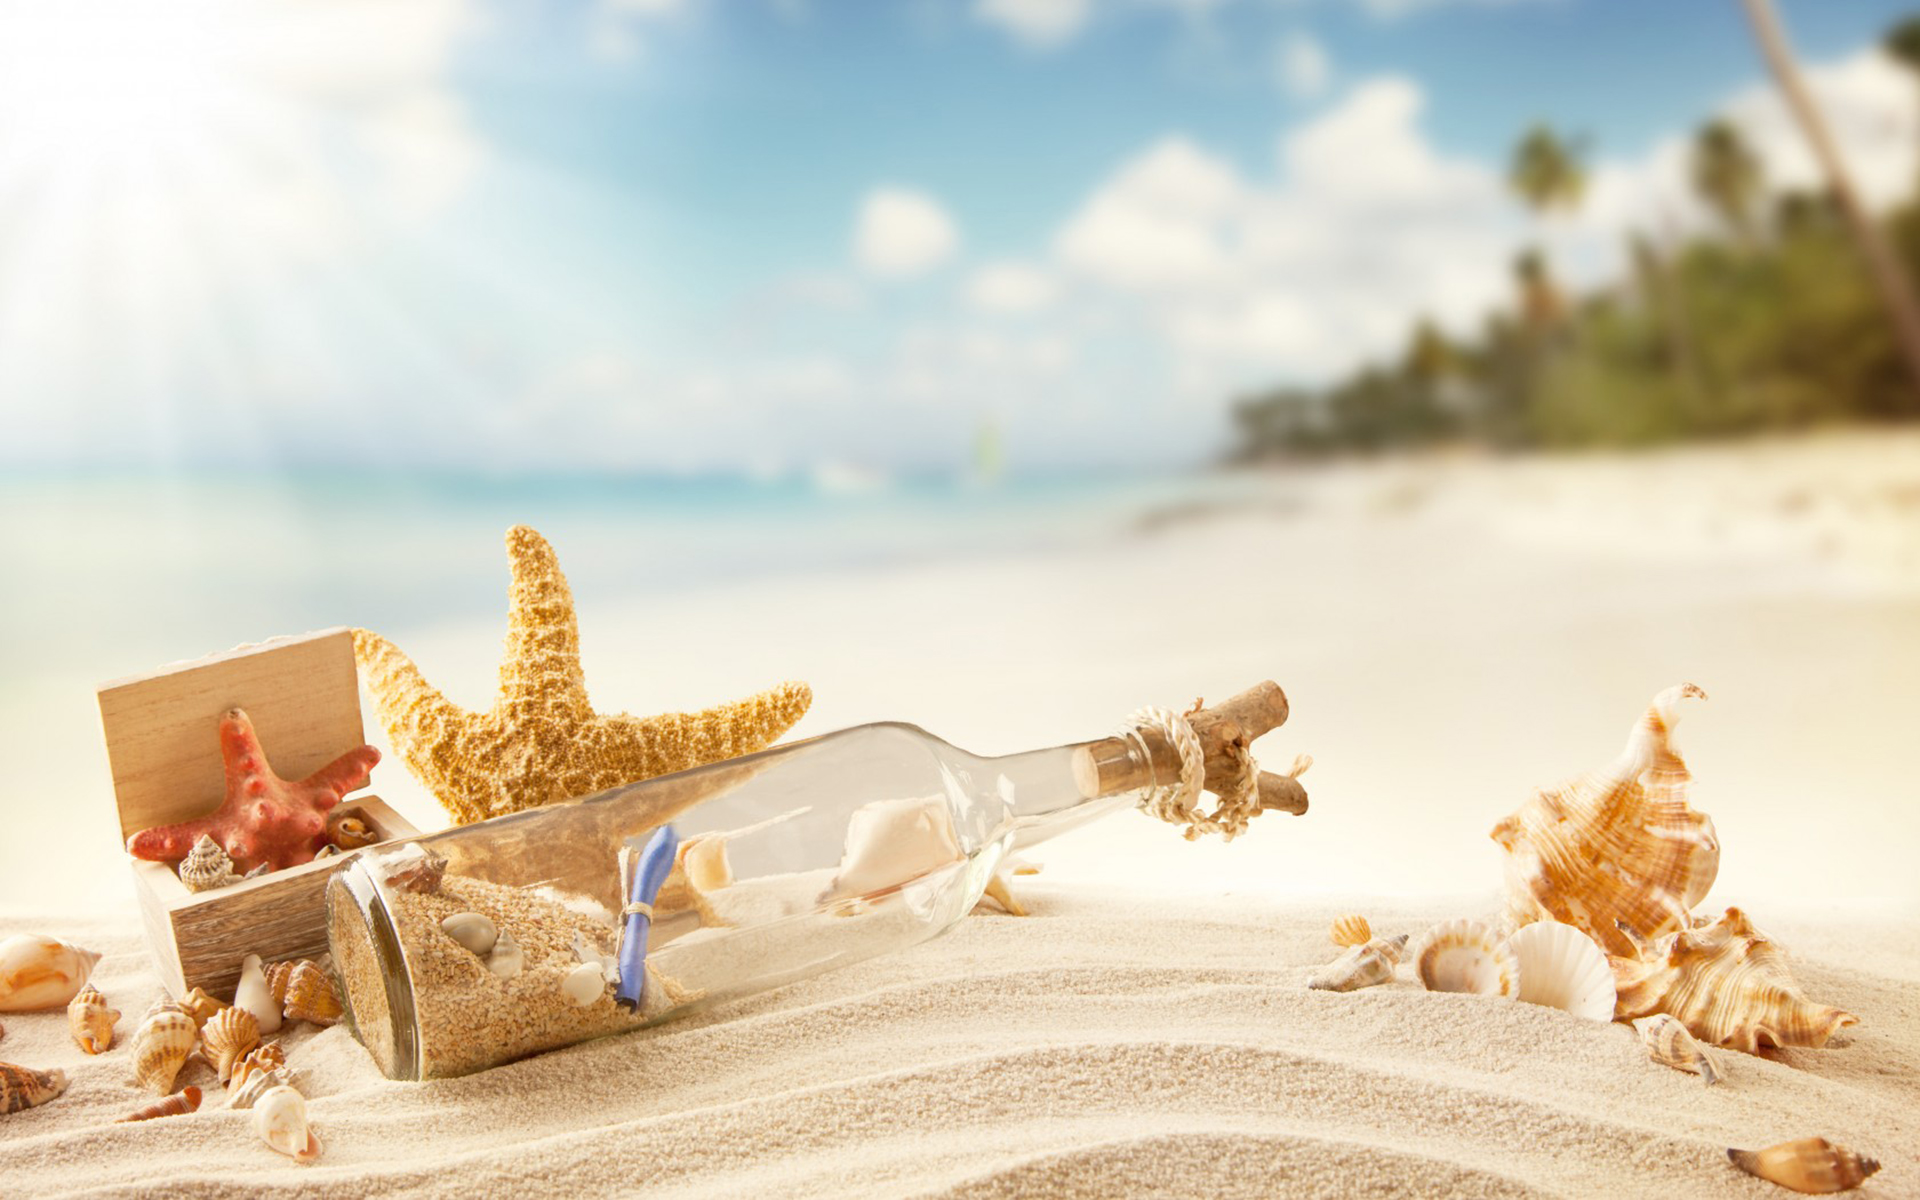
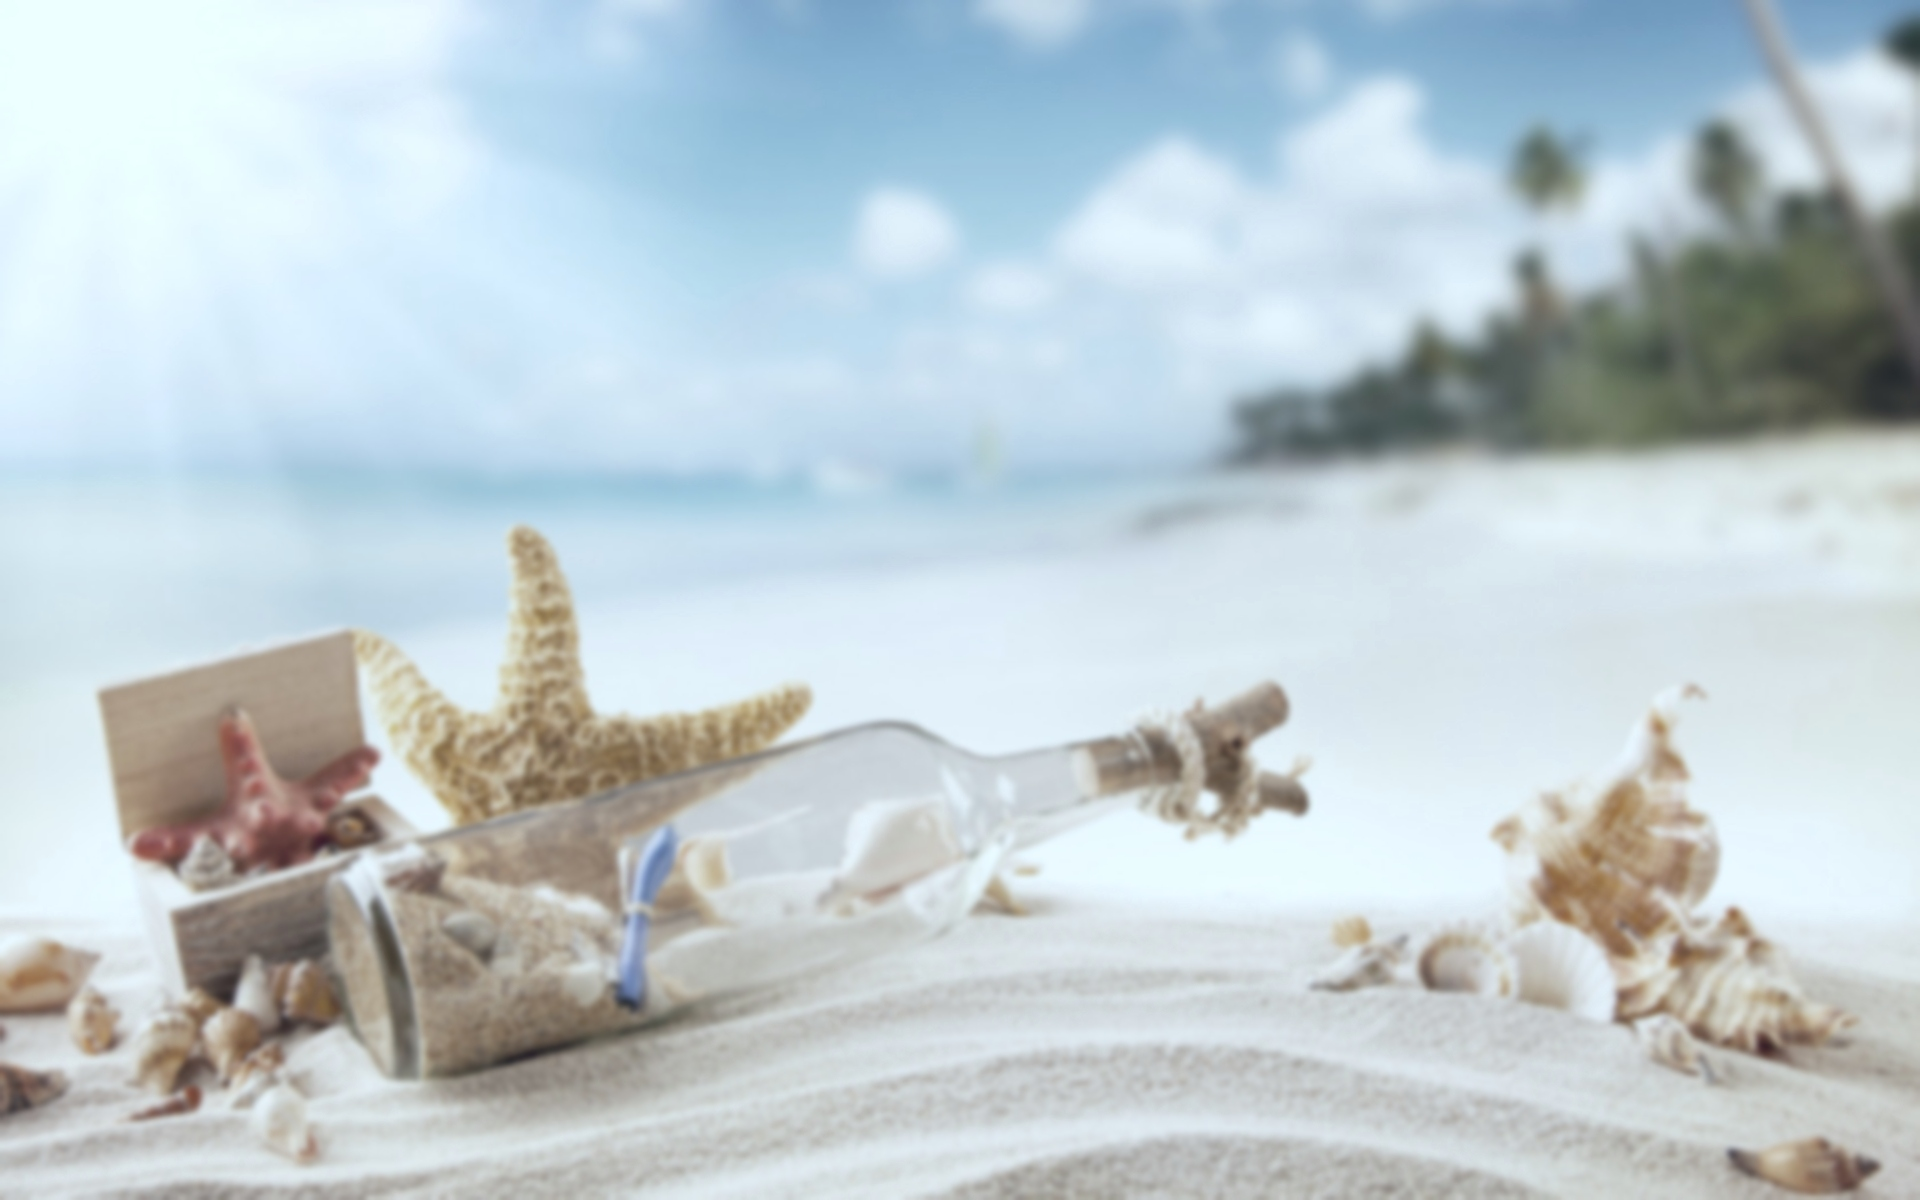
Updated Styling -centered content vertically and horizontally -made content responsive

diff --git a/assets/styles/index.scss b/assets/styles/index.scss
@@ -6,19 +6,18 @@ $icon-font-path: '~bootstrap-sass/assets/fonts/bootstrap/';
   padding: 0;
 }
 
-html, body {
-  width: 100%;
-  height: 100%;
-}
-
-
-#content-area {
+html, body{
   display: flex;
   flex-direction: column;
-  width: 100%;
+  background-image:url('./ocean.jpg');
   height: 100%;
-  min-width: 100%;
-  min-height: 100%;
+  margin: 0;
+  background-position: center fixed;
+  background-repeat: no-repeat;
+  background-size: cover;
+  max-height: 100%;
+  overflow: auto;
+  background-attachment: fixed;
 }
 
 #background {
@@ -41,29 +40,17 @@ html, body {
 }
 
 .modal-content {
-  margin: 40%;
+  margin: 10%;
   padding: 2%;
   border: solid 2px rgba(130, 111, 91, .8);
-  background-color: rgba(73, 124, 97,.4);
-}
-
-
-#image {
-  position: absolute;
-  background-size: cover;
-  width: 100%;
-  height: 100%;
-  min-width: 100%;
-  min-height: 100%;
-  z-index: -2;
-  opacity: .6;
-  background-image: url('./ocean.jpg')
+  background-color: rgba(73, 124, 97, .6);
+  min-width: 240px;
 }
 
 
 #warning-board {
   display: flex;
-  background-color: rgba(186, 13, 13, .5);
+  background-color: rgba(186, 13, 13, .6);
   justify-content: center;
   flex-wrap: wrap;
   color: white;
@@ -72,7 +59,7 @@ html, body {
 
 #game-code {
   display: flex;
-  background-color: rgba(96, 122, 90, .5);
+  background-color: rgba(96, 122, 90, .6);
   justify-content: center;
   flex-wrap: wrap;
   color: white;
@@ -111,10 +98,13 @@ html, body {
 #sign-up-in-content {
   display: flex;
   flex-direction: column;
-  align-content: center;
-  margin: 20%;
+  position: absolute;
+  width: 60%;
+  top: 50%;
+  left: 50%;
+  transform: translate(-50%, -50%);
   padding-bottom: 2%;
-  background-color: rgba(176, 200, 252, .4);
+  background-color: rgba(176, 200, 252, .6);
   border: solid 2px rgba(130, 111, 91, .8);
 }
 
@@ -149,11 +139,16 @@ flex-wrap: wrap;
 }
 
 #page-1 {
-  margin: 40%;
+  position: absolute;
+  width: 60%;
+  top: 50%;
+  left: 50%;
+  transform: translate(-50%, -50%);
   padding-top: 2%;
   padding-bottom: 2%;
-  background-color: rgba(176, 200, 252, .2);
+  background-color: rgba(176, 200, 252, .6);
   border: solid 2px rgba(130, 111, 91, .8);
+  min-width: 320px;
 }
 
 #page-holder2 {
@@ -165,11 +160,16 @@ flex-wrap: wrap;
 }
 
 #page-2 {
-  margin: 40%;
+  position: absolute;
+  width: 60%;
+  top: 50%;
+  left: 50%;
+  transform: translate(-50%, -50%);
   padding-top: 2%;
   padding-bottom: 2%;
-  background-color: rgba(176, 200, 252, .2);
+  background-color: rgba(176, 200, 252, .6);
   border: solid 2px rgba(130, 111, 91, .8);
+  min-width: 320px;
 }
 
 
@@ -232,17 +232,20 @@ flex-wrap: wrap;
   font-size: 50px;
   color: grey;
 }
+
 #game-page {
+  position: absolute;
+  top: 50%;
+  left: 50%;
+  transform: translate(-50%, -50%);
   display: flex;
   flex-direction: column;
   height: 100%;
-  margin-left: 20%;
-  margin-right: 20%;
   justify-content: center;
 }
 
 #board > div:hover {
-  background-color: rgba(193, 149, 83, .3)
+  background-color: rgba(193, 149, 83, .6)
 }
 
 #game-page-buttons {
@@ -251,6 +254,10 @@ flex-wrap: wrap;
   margin-top: 2%;
   display: flex;
   justify-content: space-around;
+}
+
+.center-buttons {
+  justify-content: center;
 }
 
 input[type=submit], button {
@@ -280,4 +287,8 @@ input[type=text],input[type=password],input[type=email], input[type=number]{
 
 .hide {
   display: none;
+}
+
+@media (max-height: 900px) {
+  #game-page {width: 90%}
 }
